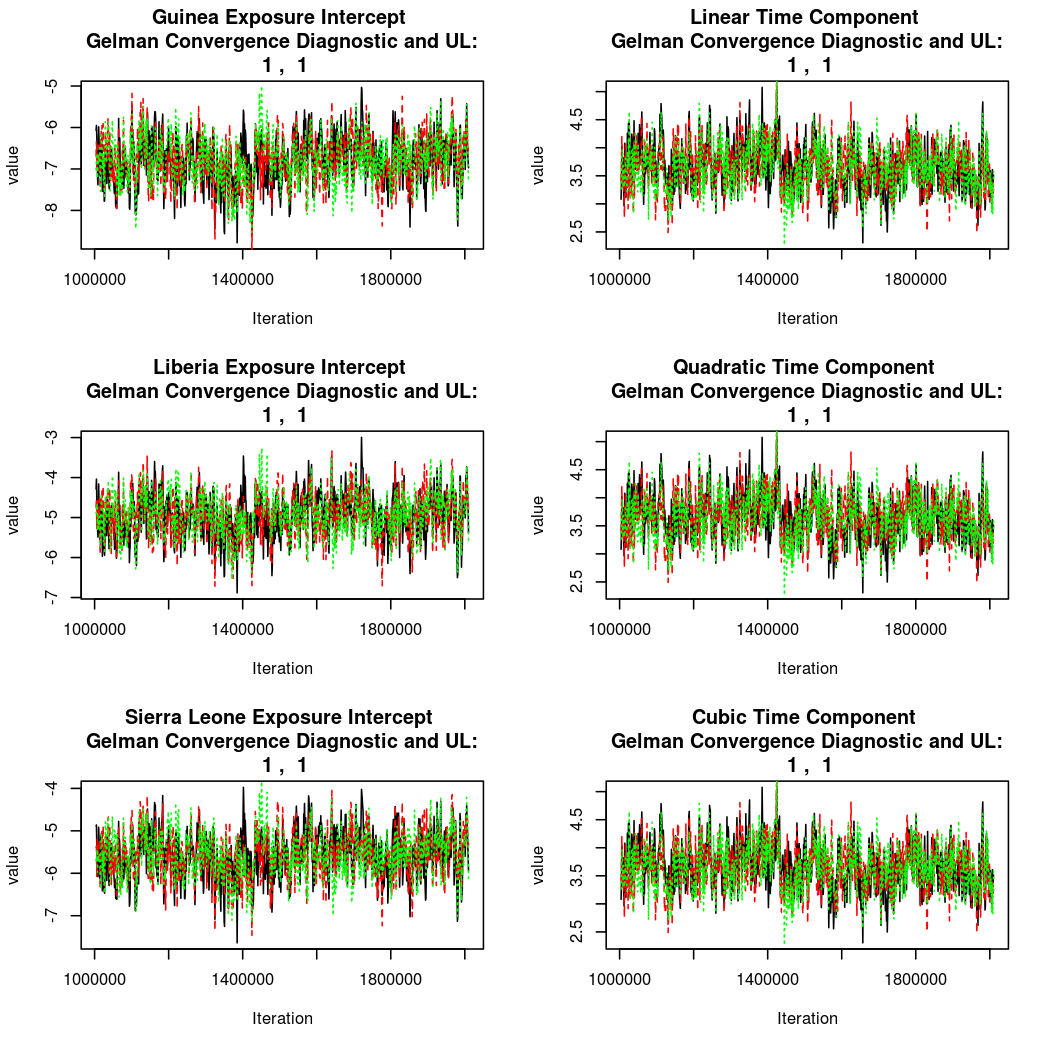
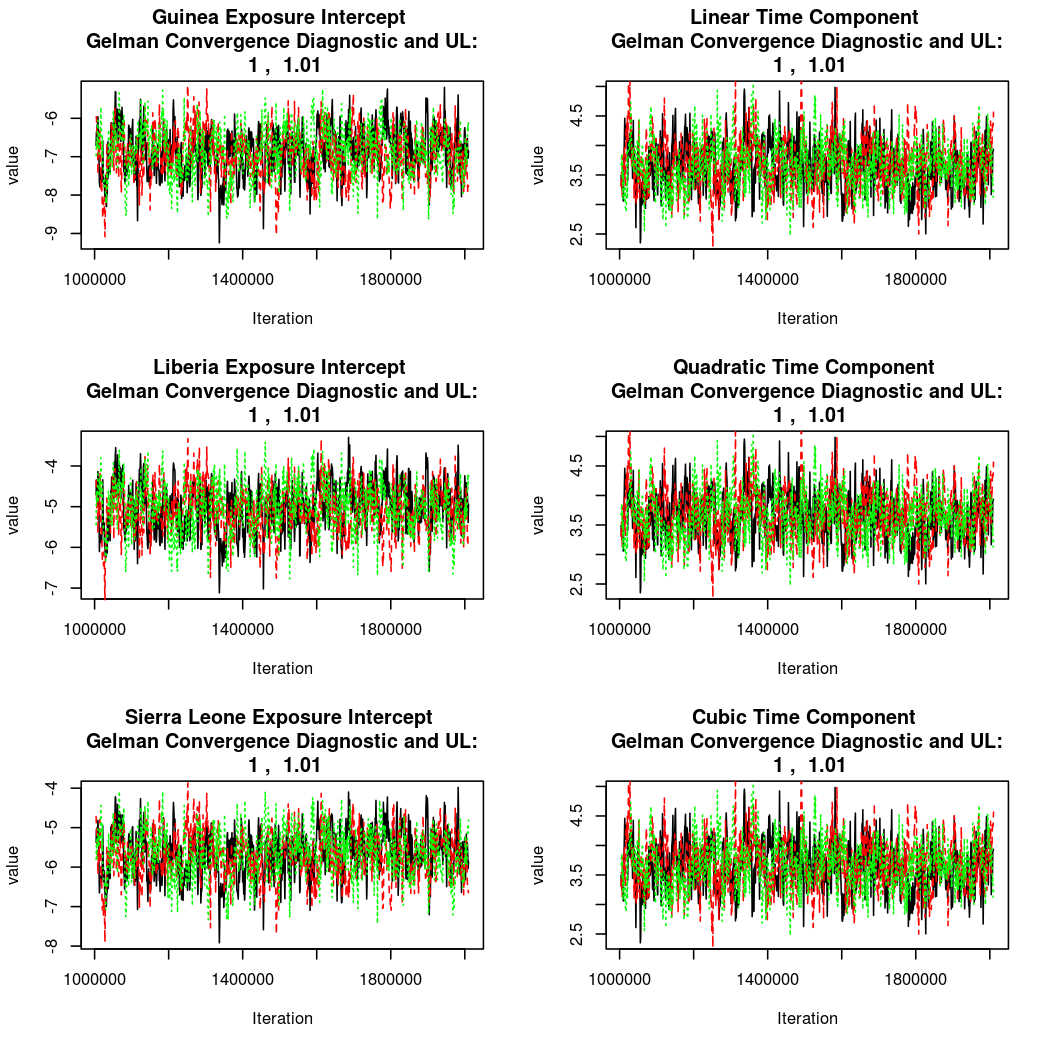
Update hosted Ebola Docs

diff --git a/doc/tutorials/Ebola2014/Ebola2014.html b/doc/tutorials/Ebola2014/Ebola2014.html
@@ -104,8 +104,9 @@
         <div class="col-sm-12">
           <h1>Estimating and Predicting Epidemic Behavior for the 2014 West African Ebola Outbreak</h1>
           <h4>A Quick and Dirty Spatial SEIR Modeling Approach</h4>
-          <h5>Grant Brown</h5>
-          <h5>Last Updated: 7/22/2014</h5>
+          <h5><a href="http://www.public-health.uiowa.edu/people/grant-brown/">Grant Brown</a></h5>
+          <h5><a href="http://www.public-health.uiowa.edu/people/jacob-oleson/">Jacob Oleson</a></h5>
+          <h5>Last Updated: 7/24/2014</h5>
         </div>
       </div>
     </div>
@@ -138,17 +139,20 @@
     </div>
 
     <div class="container">
-      <a id="introduction-sect" class="anchor"></a>
+      <a id="introduction-sect" class="anchor">
       <h2>Introduction</h2>
+      </a>
       <div class="row">
         <div class = "col-sm-10 col-sm-offset-1">
-        <a id="intro-outbreak-sect" class="anchor"></a>
+        <a id="intro-outbreak-sect" class="anchor">
         <h3>The Outbreak</h3>
+        </a>
           <p>
           The 2014 Ebola outbreak in West Africa is an ongoing public health crisis, which has killed hundreds of people so far. The cross-border nature of this epidemic, which has emerged in Gunea, Liberia and Sierra Leone has complicated mitigation efforts, as has the poor health infrastructure in the region. While there has been much analysis and speculation about the factors at play in the spread of the virus, there aren't many specific predicitons about the expected duration and severity of this particular epidemic. In the (certainly temporary) absence of peer reivewed epidemic forecasts, this document explores a simple spatial SEIR model to make some initial forecasts. 
           </p>
-          <a id="intro-data-sect" class="anchor"></a>
+          <a id="intro-data-sect" class="anchor">
         <h3>The Data</h3>
+        </a>
         <p>
         A summary of the WHO case reports is very helpfully compiled on wikipedia for analysts who are too lazy to read the case reports themselves. Let's read it in with the xml library: 
       </p>
@@ -258,8 +262,9 @@ These represent cumulative counts, but because case reports can be revised downw
 
 <div class="chunk" id="unnamed-chunk-4"><div class="rimage center"><img src="figure/unnamed-chunk-4.png" title="plot of chunk unnamed-chunk-4" alt="plot of chunk unnamed-chunk-4" class="plot" /></div></div>
 
-      <a id="intro-compartment-sect" class="anchor"></a>
+      <a id="intro-compartment-sect" class="anchor">
       <h3>Compartmental Models</h3>
+      </a>
       <p>
         Now that we've got data read in and made a couple of plots to ensure we haven't done anything to terribly stupid with it
         , let's do some compartmental epidemic modeling. Not only has Ebola been <a href="http://www.ncbi.nlm.nih.gov/pubmed/17156292">well modeled in the past</a> using compartmental modeling techniques, but this author happens to be working on a software library designed to fit compartmental models in the spatial SEIRS family. What a strange coincidence! Specifically, we'll be using heirarchical Bayesian estimation methods to fit a spatial SEIR model to the data.  
@@ -281,8 +286,9 @@ We're not going to do anything fancy with demographic information or public heal
     <div class="col-sm-1">
     </div>
   </div>
-  <a id="analysis-1-sect" class = "anchor"></a>
+  <a id="analysis-1-sect" class = "anchor">
   <h2>Analysis 1</h2> 
+  </a>
   <div class="row">
     <div class = "col-sm-10 col-sm-offset-1">
       <a id="analysis-1-set-up-sect" class = "anchor">
@@ -478,7 +484,6 @@ We're not going to do anything fancy with demographic information or public heal
 <span class="hl std">i</span> <span class="hl kwb">=</span> <span class="hl num">1</span><span class="hl std">;</span>
 <span class="hl kwa">for</span> <span class="hl std">(seedVal</span> <span class="hl kwa">in</span> <span class="hl kwd">c</span><span class="hl std">(</span><span class="hl num">12345</span><span class="hl std">,</span><span class="hl num">543219</span><span class="hl std">,</span><span class="hl num">992134</span><span class="hl std">))</span>
 <span class="hl std">{</span>
-  <span class="hl kwd">set.seed</span><span class="hl std">(seedVal)</span>
   <span class="hl std">proposal</span> <span class="hl kwb">=</span> <span class="hl kwd">proposeParameters</span><span class="hl std">(seedVal, i)</span>
   <span class="hl std">SEIRmodels[[i]]</span> <span class="hl kwb">=</span> <span class="hl kwd">spatialSEIRModel</span><span class="hl std">(compMatDim,</span>
                       <span class="hl std">xDim,</span>
@@ -639,17 +644,18 @@ As before, we'll adjust the tuning parameters along the way. Astute readers may 
 <span class="hl std">}</span>
 </pre></div>
 <div class="output"><pre class="knitr r">## Running chain 1
-## Time elapsed: 11.278 minutes
+## Time elapsed: 11.307 minutes
 ## Running chain 2
-## Time elapsed: 11.523 minutes
+## Time elapsed: 11.16 minutes
 ## Running chain 3
-## Time elapsed: 11.272 minutes
+## Time elapsed: 11.189 minutes
 </pre></div>
 </div></div>
 </div>
 
-<a id="analysis-1-convergence-sect" class="anchor"></a>
+<a id="analysis-1-convergence-sect" class="anchor">
 <h3>Convergence Diagnosis</h3>
+</a>
 
 <p>As this is a Bayesian analysis in which the posterior distribution is sampled using MCMC techniques, we really need some
 indication that the samplers have indeed converged to the posterior distribution in order to make any inferences about the 
@@ -731,8 +737,9 @@ several important parameters, and take a look at the Gelman and Rubin convergenc
 
 <div class="chunk" id="unnamed-chunk-11"><div class="rimage center"><img src="figure/unnamed-chunk-11.png" title="plot of chunk unnamed-chunk-11" alt="plot of chunk unnamed-chunk-11" class="plot" /></div></div>
 
-<a id="analysis-1-estimates-sect" class="anchor"></a>
+<a id="analysis-1-estimates-sect" class="anchor">
 <h3>Estimated Epidemic Behavior</h3>
+</a>
 <p>
   The convergence looks reasonable, so let's dissect the estimates a bit. 
 </p>
@@ -859,8 +866,9 @@ intervals for their intercept parameters.
 
 <div class="chunk" id="unnamed-chunk-15"><div class="rimage center"><img src="figure/unnamed-chunk-15.png" title="plot of chunk unnamed-chunk-15" alt="plot of chunk unnamed-chunk-15" class="plot" /></div></div>
 
-<a id="analysis-1-r0-sect" class="anchor"></a>
+<a id="analysis-1-r0-sect" class="anchor">
 <h3>Basic Reproductive Number Calculation</h3>
+</a>
 <p>
 A common tool for describing the development and containment of an epidemic is a quantity known as the basic reproductive numer, or the basic reproductive ratio, or one of several other variants on that theme. The basic idea is to quantify how many secondary infections an infected individual is expected to cause in a large, fully susceptible population. Naturally, when this ratio exceeds one we expect it to spread. Conversely, a basic reproductive number less than one indicates that a pathogen is more likely to die out. This software library doesn't yet compute the ratio automatically, but does provide what's known as the "next generation matrix" which can be used to quickly calculate the quantity. <br/>
 
@@ -909,8 +917,9 @@ The dip in recent days in the estimated basic reproductive ratio is definitely a
 While the basic reproductive number is a useful quantity to know, it does not directly make any predictions about future epidemic behavior. In order to do that, we need to simulate epidemics  based on the MCMC samples we have obtained and summarize their variability over time. <br/>
  
 
-<a id="analysis-1-prediction-sect" class="anchor"></a>
+<a id="analysis-1-prediction-sect" class="anchor">
 <h3>Epidemic Prediction</h3>
+</a>
 <p>
  
  Currently the simulation required for epidemic prediction must be done "manually", or by writing a bunch of R code (given below). As the library develops, a simpler prediction interface is a high priority.  <br/> Below, we will attempt to predict the course of the epidemic through early fall. 
@@ -1181,7 +1190,7 @@ While the basic reproductive number is a useful quantity to know, it does not di
                       <span class="hl std">mcmcTuningParams,</span>
                       <span class="hl std">reinfectionMode,</span>
                       <span class="hl std">scaleDistanceMode)</span>
-
+  <span class="hl std">SEIRmodels.spline[[i</span><span class="hl opt">-</span><span class="hl num">3</span><span class="hl std">]]</span><span class="hl opt">$</span><span class="hl kwd">setRandomSeed</span><span class="hl std">(seedVal)</span>
   <span class="hl std">i</span> <span class="hl kwb">=</span> <span class="hl std">i</span> <span class="hl opt">+</span> <span class="hl num">1</span><span class="hl std">;</span>
 <span class="hl std">}</span>
 </pre></div>
@@ -1218,36 +1227,36 @@ While the basic reproductive number is a useful quantity to know, it does not di
 <div class="output"><pre class="knitr r">## Burning in chain 1
 ## Total iterations so far: 11000
 ## Acceptance rates: 
-## S0:       0.191
-## I0:       0.241
-## E_star:   0.296
-## R_star:   0.375
-## beta:     0.198, 0.198, 0.198, 0.198, 0.198, 0.198, 
-## rho:      0.29
-## gamma_ei:     0.169
-## gamma_ir:     0.231
+## S0:       0.261
+## I0:       0.203
+## E_star:   0.148
+## R_star:   0.147
+## beta:     0.269, 0.269, 0.269, 0.269, 0.269, 0.269, 
+## rho:      0.24
+## gamma_ei:     0.21
+## gamma_ir:     0.232
 ## Burning in chain 2
 ## Total iterations so far: 11000
 ## Acceptance rates: 
-## S0:       0.243
-## I0:       0.204
-## E_star:   0.077
-## R_star:   0.257
-## beta:     0.183, 0.183, 0.183, 0.183, 0.183, 0.183, 
-## rho:      0.298
-## gamma_ei:     0.178
-## gamma_ir:     0.198
+## S0:       0.262
+## I0:       0.224
+## E_star:   0.254
+## R_star:   0.31
+## beta:     0.23, 0.23, 0.23, 0.23, 0.23, 0.23, 
+## rho:      0.247
+## gamma_ei:     0.212
+## gamma_ir:     0.323
 ## Burning in chain 3
 ## Total iterations so far: 11000
 ## Acceptance rates: 
-## S0:       0.235
-## I0:       0.18
-## E_star:   0.294
-## R_star:   0.142
-## beta:     0.227, 0.227, 0.227, 0.227, 0.227, 0.227, 
-## rho:      0.297
-## gamma_ei:     0.167
-## gamma_ir:     0.187
+## S0:       0.211
+## I0:       0.251
+## E_star:   0.206
+## R_star:   0.149
+## beta:     0.256, 0.256, 0.256, 0.256, 0.256, 0.256, 
+## rho:      0.223
+## gamma_ei:     0.257
+## gamma_ir:     0.221
 </pre></div>
 <div class="source"><pre class="knitr r"><span class="hl kwa">for</span> <span class="hl std">(i</span> <span class="hl kwa">in</span> <span class="hl num">1</span><span class="hl opt">:</span><span class="hl kwd">length</span><span class="hl std">(SEIRmodels.spline))</span>
 <span class="hl std">{</span>
@@ -1263,11 +1272,11 @@ While the basic reproductive number is a useful quantity to know, it does not di
 <span class="hl std">}</span>
 </pre></div>
 <div class="output"><pre class="knitr r">## Running in chain 1
-## Time elapsed: 11.451 minutes
+## Time elapsed: 11.531 minutes
 ## Running in chain 2
-## Time elapsed: 11.164 minutes
+## Time elapsed: 11.484 minutes
 ## Running in chain 3
-## Time elapsed: 11.269 minutes
+## Time elapsed: 11.538 minutes
 </pre></div>
 <div class="source"><pre class="knitr r"><span class="hl std">chain1</span> <span class="hl kwb">=</span> <span class="hl kwd">read.csv</span><span class="hl std">(</span><span class="hl str">&quot;chain_output_ebola_4.txt&quot;</span><span class="hl std">)</span>
 <span class="hl std">chain2</span> <span class="hl kwb">=</span> <span class="hl kwd">read.csv</span><span class="hl std">(</span><span class="hl str">&quot;chain_output_ebola_5.txt&quot;</span><span class="hl std">)</span>
@@ -1493,22 +1502,6 @@ This document will continue to be updated as the epidemic progressesm and as the
           });
       });
       
-      $("img[class=plot]").click(function(){
-        if ($(this).width() == 640)
-        {
-          $(this).animate({
-            width: "+=300",
-          }, 100, function() {
-          });
-        }
-        else
-        {
-          $(this).animate({
-            width: "-=300",
-          }, 100, function() {
-          });
-        }
-      });
     </script>
   </body>
 </html>

diff --git a/doc/tutorials/Ebola2014/css/ebola.css b/doc/tutorials/Ebola2014/css/ebola.css
@@ -21,11 +21,9 @@ div.output pre{
     background-color:rgb(255,255,255);
 }
 
-img.plot{
-    width:640px;
+img {
+    max-width: 100%;
 }
-
-
 
 .anchor{
     padding-top: 40px;
